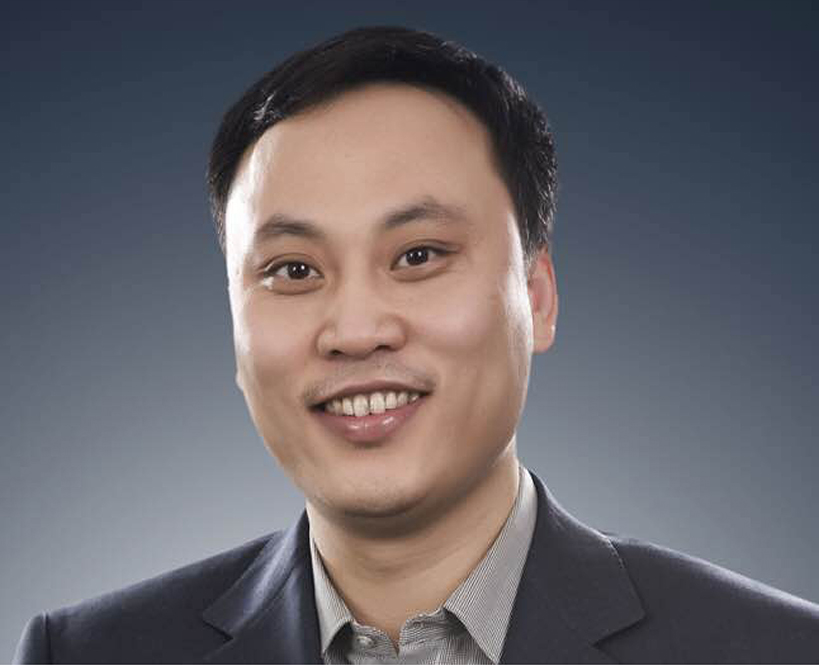
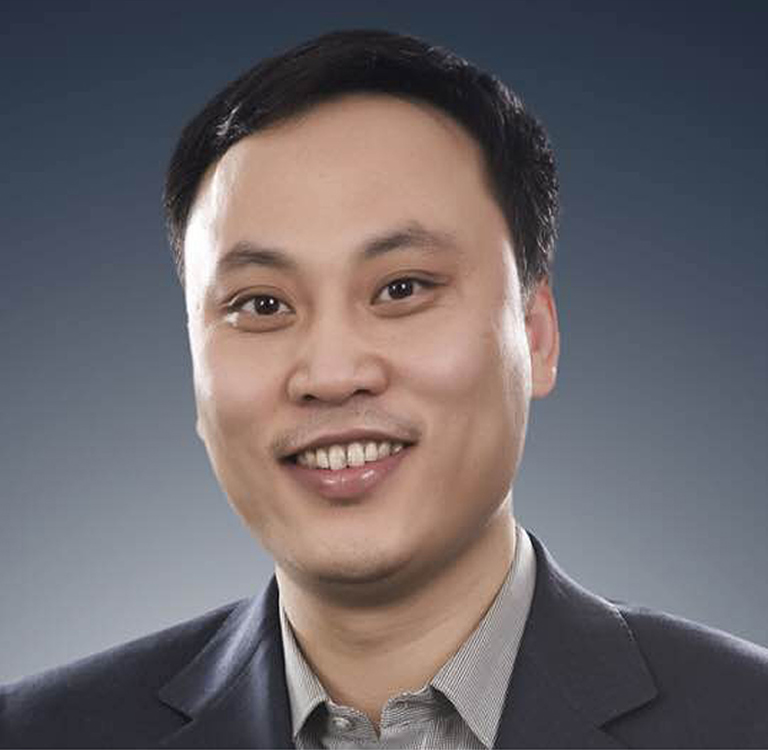
Add styling to  the cards

diff --git a/index.html b/index.html
@@ -218,7 +218,7 @@
       <div class="col-4"><img class="person" src="images/Priya.jpg" alt="Speaker"></div>
     <div class="col-8 image-text">
       <h6 class="speaker-name ">Priya Gupta</h6>
-    <p class="title-speaker">South African engineer, polymathic inventor, and professor.</p>
+    <p class="title-speaker cardp">South African engineer, polymathic inventor, and professor.</p>
     <p class="cardp">He has lectured in different engineering disciplines including ocean engineering</p>
     </div>
   </div>
@@ -226,7 +226,7 @@
 
  <div class="col-md-6 sm-12 speakers pb-5">
   <div class="row border">
-    <div class="col-4"><img class="person" src="images/Speaker-2019-Qin-Haiyan-819x665.jpg" alt="Speaker"></div>
+    <div class="col-4"><img class="person w-100" src="images/Speaker-2019-Qin-Haiyan-819x665.jpg" alt="Speaker"></div>
     <div class="col-8 image-text">
       <h6 class="speaker-name">Qin Hiyan</h6>
     <p class="title-speaker cardp">Chinese engineer, polymathic inventor, and professor.</p>
@@ -237,7 +237,7 @@
 
 <div class="col-md-6 sm-12 speakers pb-5">
   <div class="row border">
-    <div class="col-4"><img class="person" src="images/team-img7.jpg" alt="Speaker"></div>
+    <div class="col-4"><img class="person w-100" src="images/team-img7.jpg" alt="Speaker"></div>
     <div class="col-8 image-text">
       <h6 class="speaker-name">Tendai Nyandoro</h6>
     <p class="title-speaker cardp">Zimbabwean engineer, polymathic inventor, and professor.</p>
@@ -248,7 +248,7 @@
 
 <div class="col-md-6 sm-12 speakers pb-5">
 <div class="row border">
-  <div class="col-4"><img class="person" src="images/worldenergy.jpg" alt="Speaker"></div>
+  <div class="col-4"><img class="person w-100" src="images/worldenergy.jpg" alt="Speaker"></div>
   <div class="col-8 image-text">
     <h6 class="speaker-name">The World Energy CEO</h6>
   <p class="title-speaker cardp">Dr Christoph Frei engineer, polymathic inventor, and professor.</p>
@@ -270,7 +270,7 @@
 
 <div class="col-md-6 sm-12 speakers pb-5">
 <div class="row border">
-  <div class="col-4"><img class="person w-100" src="images/accsf-hastings-chikoko-1024x683.jpg" alt="Speaker"></div>
+  <div class="col-4"><img class="person w-100" src="images/frei-wec.jpg" alt="Speaker"></div>
     <div class="col-8 image-text">
       <h6 class="speaker-name">Hastings Chikoko</h6>
     <p class="title-speaker cardp">Regional Director for Africa at C40 Cities Climate Leadership Group.</p>
